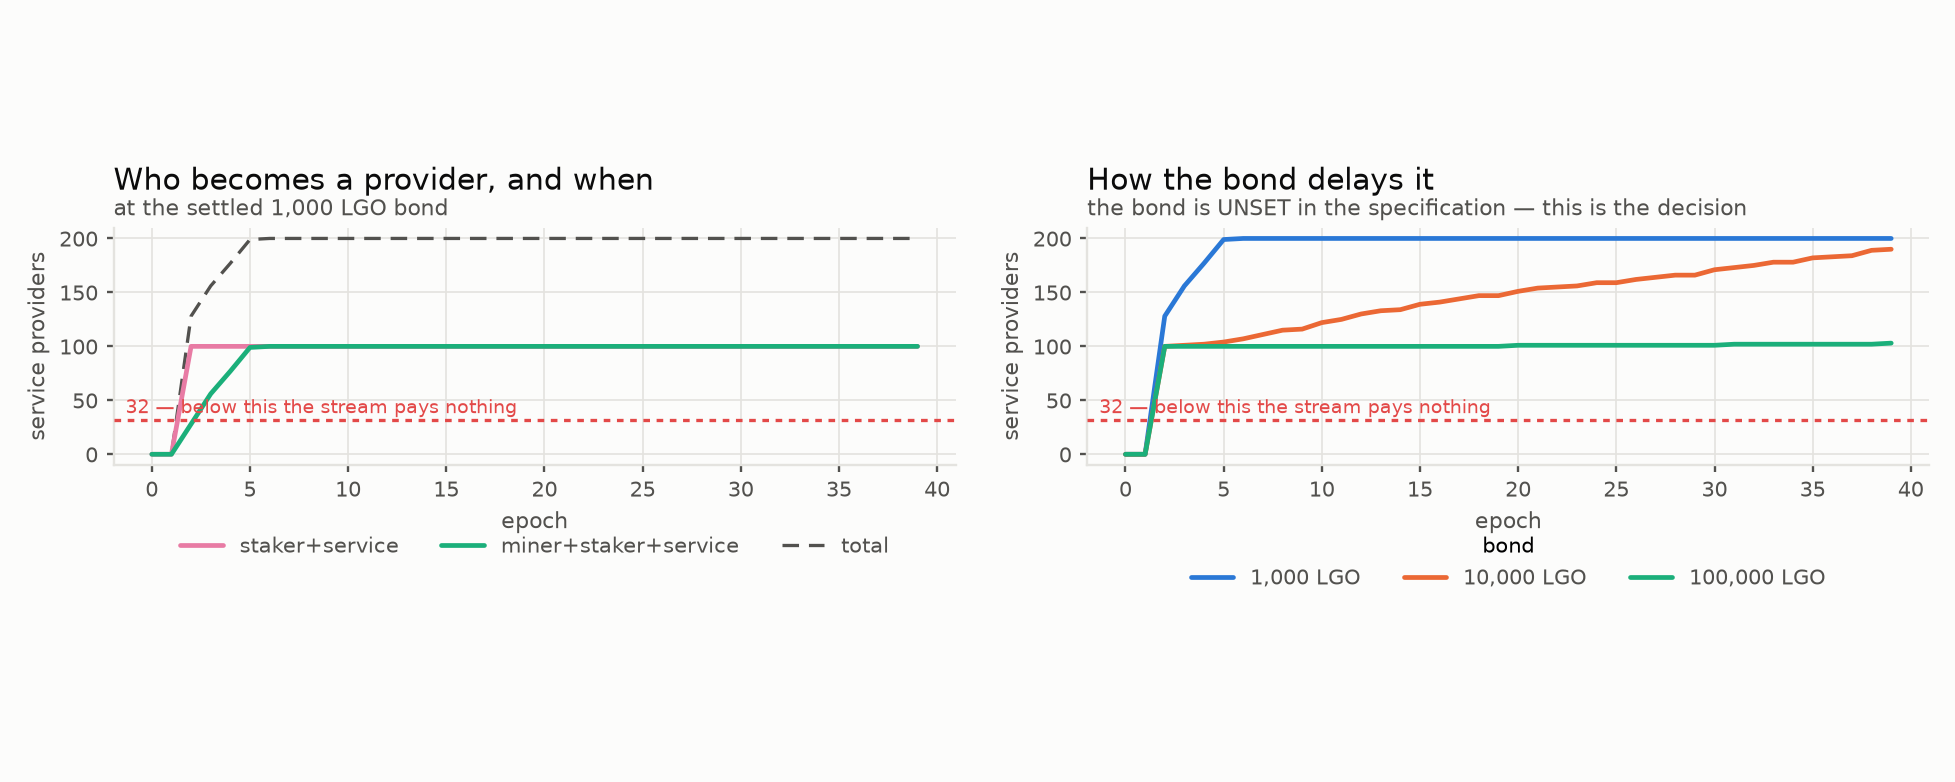
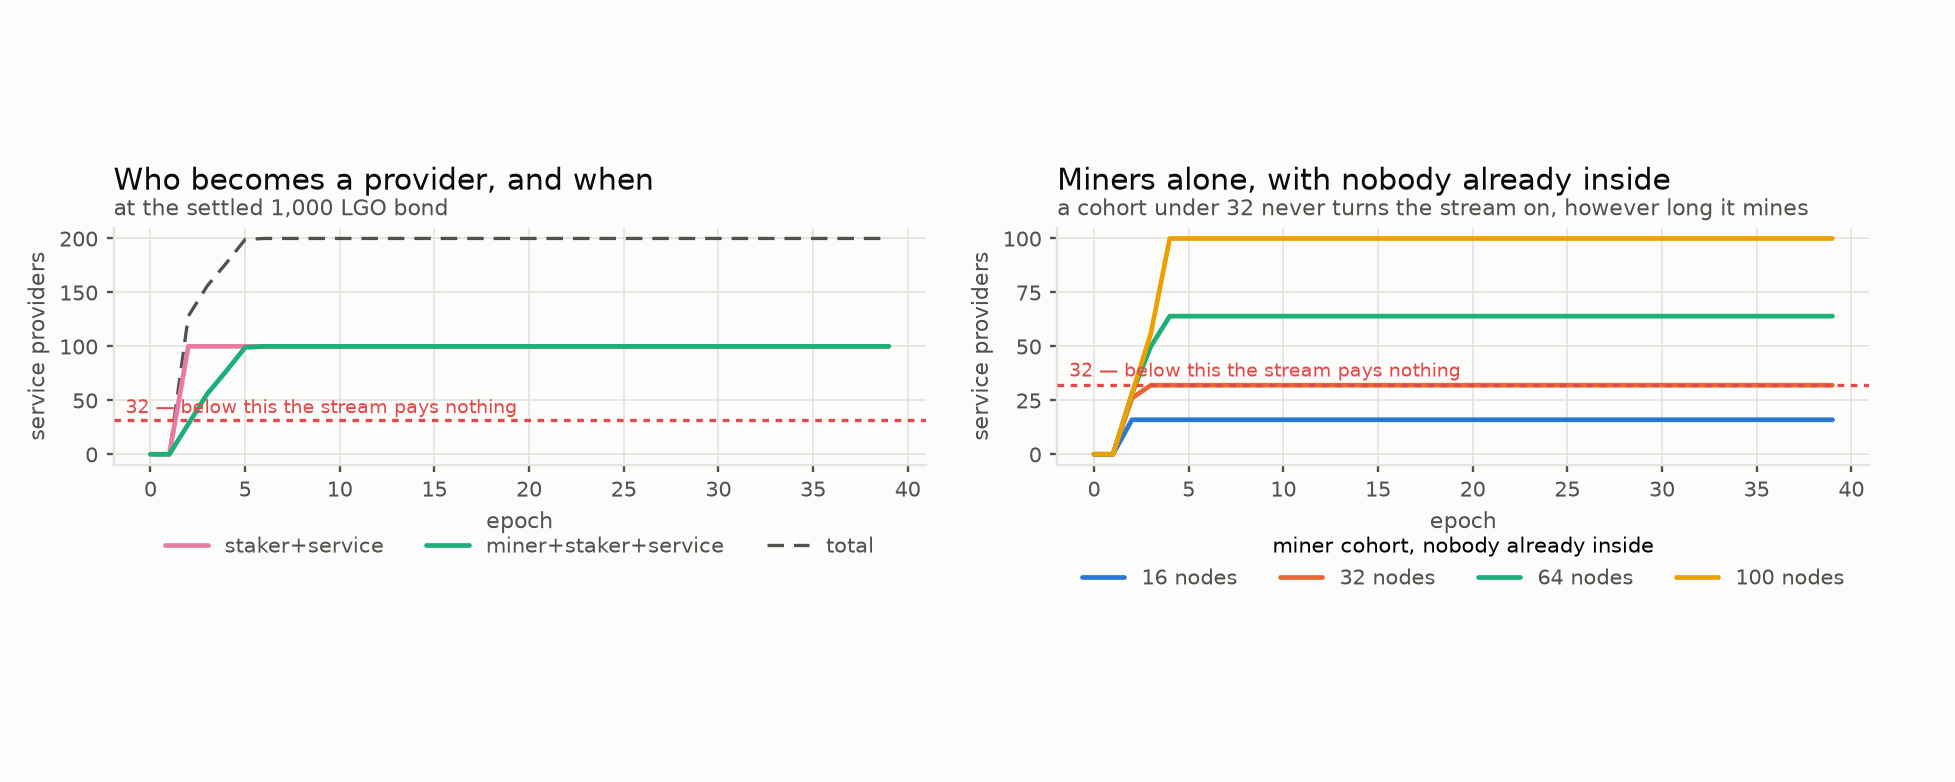
EmPoWering: the bond is fixed at 1,000 LGO, so the live question becomes who turns up
Recorded as settled rather than as a decision or a sweep axis, in the config, the
contradictions record and the study's plan. It was derived under a supply a hundred times
smaller than the one that governs -- the same rule at the governing supply would give 100,000
-- but the figure stands.

That makes the provider-ramp figure's second panel moot: sweeping a fixed constant answers
nothing. It is replaced by the question the first panel had raised and the sweep had
displaced. Both curves on the left sit above the thirty-two-provider floor throughout, but
only because the endowed group alone is a hundred nodes and carries the floor while the miners
ramp. So the right panel drops the endowed cohort and asks whether miners can turn the stream
on by themselves.

They can, but only if enough of them arrive. A sixteen-node cohort plateaus at sixteen and
NEVER reaches the floor: every one of its members crosses the bond inside a month and earns
nothing from it, because below thirty-two providers the reward is not calculated at all. At
thirty-two it is exactly marginal; at sixty-four and a hundred it clears by epoch four.

So with the bond fixed the binding constraint on the largest reward stream on the chain is not
the amount anyone must post -- it is how many people show up at once. The on-ramp needs
somebody already inside for it to be worth walking up, or it needs thirty-two people to arrive
[…]

diff --git a/tools/simulators/empowering/src/empowering_sim/plots_strategies.py b/tools/simulators/empowering/src/empowering_sim/plots_strategies.py
@@ -167,20 +167,23 @@ def per_node(cfg, pop, scfg, out: Path) -> Path:
     return p
 
 
-def provider_ramp(cfg, out: Path, thresholds=(1_000.0, 10_000.0, 100_000.0),
-                  epochs: int = 40) -> Path:
+def provider_ramp(cfg, out: Path, cohort_sizes=(16, 32, 64, 100), epochs: int = 40) -> Path:
     """How many nodes become service providers, and when.
 
-    Two panels, because the answer has two halves. On the left, who crosses at the settled
-    threshold: the endowed group is bonded from the moment its declaration clears the two-epoch
-    snapshot lag, while the miners have to earn their bond first. On the right, how much later
-    that happens if the threshold is higher -- which is the one parameter nobody has settled.
+    Two panels. On the left, who crosses at the fixed 1,000 LGO bond: the endowed group is
+    bonded from the moment its declaration clears the two-epoch snapshot lag, while the miners
+    must earn theirs first.
 
-    The thirty-two-provider floor is drawn on both, because below it the stream does not pay
-    at all and the ramp is not merely slower but irrelevant.
+    On the right, the question the left panel raises. Both curves there sit above the floor
+    throughout -- but only because the endowed group alone is a hundred nodes. **With the bond
+    fixed, whether the stream exists at all comes down to how many nodes turn up.** A network
+    of miners with no already-endowed cohort has to reach thirty-two bonded providers on its
+    own, and a cohort smaller than that never does, at any bond and after any amount of work.
+
+    The floor is drawn on both, because below it the stream does not pay at all and a ramp
+    toward it is not merely slow but pointless.
     """
     import matplotlib.pyplot as plt
-    from dataclasses import replace
 
     fig, axes = plt.subplots(1, 2, figsize=(11.5, 4.6))
 
@@ -203,20 +206,23 @@ def provider_ramp(cfg, out: Path, thresholds=(1_000.0, 10_000.0, 100_000.0),
     _style(axes[0], "Who becomes a provider, and when",
            f"at the settled {cfg.min_stake_lgo:,.0f} LGO bond")
 
-    # -- right: how the threshold delays it
-    for i, thr in enumerate(thresholds):
-        c2 = replace(cfg, min_stake_lgo=thr)
-        _, r2 = st.run(c2, st.StrategyConfig(epochs=epochs))
+    # -- right: miners alone, with no endowed cohort to carry the floor.
+    # The bond is fixed, so it is no longer a question. What is left is who turns up.
+    miners_only = {x: x in st.MINING for x in st.Strategy}
+    for i, k in enumerate(cohort_sizes):
+        _, r2 = st.run(cfg, st.StrategyConfig(
+            epochs=epochs, enabled=miners_only,
+            nodes_per_group={x: k for x in st.Strategy}))
         axes[1].plot([r.epoch for r in r2], [r.providers for r in r2],
                      color=list(SERIES.values())[i], linewidth=2, zorder=3,
-                     label=f"{thr:,.0f} LGO", solid_capstyle="round")
-    axes[1].legend(frameon=False, fontsize=9, ncol=3, loc="upper center",
+                     label=f"{k} nodes", solid_capstyle="round")
+    axes[1].legend(frameon=False, fontsize=9, ncol=4, loc="upper center",
                    bbox_to_anchor=(0.5, -0.22), labelcolor=INK_2,
-                   title="bond", title_fontsize=9)
+                   title="miner cohort, nobody already inside", title_fontsize=9)
     axes[1].set_xlabel("epoch", color=INK_2, fontsize=9.5)
     axes[1].set_ylabel("service providers", color=INK_2, fontsize=9.5)
-    _style(axes[1], "How the bond delays it",
-           "the bond is UNSET in the specification — this is the decision")
+    _style(axes[1], "Miners alone, with nobody already inside",
+           "a cohort under 32 never turns the stream on, however long it mines")
 
     for ax in axes:
         ax.axhline(services.MIN_PROVIDERS, color="#e34948", linewidth=1.4, zorder=4,

diff --git a/tools/simulators/empowering/src/empowering_sim/config.py b/tools/simulators/empowering/src/empowering_sim/config.py
@@ -64,11 +64,14 @@ class Config:
     # which is the anchor every staking figure here rests on.
     max_emission_per_year: float = 0.01
     stake_target: float = 0.30
-    # UNSET in the specification -- bedrock-service-declaration-protocol.md names
-    # min_stake.stake_threshold and gives it no value. The figure here is the one the static
-    # minimum stake analysis derives, and it is a DECISION rather than a reading: that
-    # analysis assumed S_TGE = 10^8 where block-rewards.md governs at 10^10, so the same
-    # 0.001% rule would give 100,000 LGO instead. 1,000 is carried deliberately.
+    # FIXED at 1,000 LGO and not a study axis. The specification names
+    # min_stake.stake_threshold without valuing it, and the static minimum stake analysis
+    # derives 1,000 -- under an S_TGE of 10^8 where block-rewards.md governs at 10^10, so the
+    # same 0.001% rule would have given 100,000. The figure stands as settled regardless.
+    #
+    # Its consequence is that reaching the bond costs about 865 claims, days to weeks of
+    # mining, so the service on-ramp is fast and note aging rather than the bond is what
+    # floors it.
     min_stake_lgo: float = 1_000.0
     # The genesis seed for the inferred total stake. bedrock-genesis-block.md:317 sets it to
     # the total tokens distributed at genesis; block-rewards.md's narrative assumes it small.

diff --git a/reports/EmPoWering/strategies/strategies-report.md b/reports/EmPoWering/strategies/strategies-report.md
@@ -161,29 +161,36 @@ congestible, and the two facts are the same fact.
 
 ![how many nodes become service providers, and when](figures/provider_ramp.png)
 
-The two groups arrive at the bond by different routes. The endowed group holds far more than
-the threshold from genesis, so it is a provider as soon as its declaration clears the
-two-epoch snapshot lag — bonded at epoch 2 and never later. The miners have to earn theirs,
-and at the settled 1,000 LGO bond that takes **about 865 claims**: the group crosses from none
-to all of it between epochs 2 and 5, roughly five weeks.
+The bond is **fixed at 1,000 LGO**. The two groups reach it by different routes. The endowed
+group holds far more than the bond from genesis, so it is a provider as soon as its
+declaration clears the two-epoch snapshot lag — bonded at epoch 2 and never later. The miners
+must earn theirs, which at this bond is about **865 claims**: the group crosses from none to
+all between epochs 2 and 5, roughly five weeks.
 
-The right panel is the same question asked of the parameter nobody has settled:
+So the on-ramp into the largest reward stream on the chain takes about a month, and note
+aging rather than the bond is what floors it — a miner waits nearly as long for its notes to
+age as it does to earn them.
 
-| bond | miners fully bonded by |
+**With the bond fixed, the live question is not how high the threshold is but who turns up.**
+The right panel drops the endowed cohort entirely and asks whether a network of miners can
+turn the service stream on by itself:
+
+| miner cohort, nobody already inside | outcome |
 | --- | --- |
-| 1,000 LGO | **epoch 5** (~5 weeks) |
-| 10,000 LGO | still climbing at epoch 40; ~90% of the way |
-| 100,000 LGO | essentially none of them inside 40 epochs |
+| 16 nodes | plateaus at 16 — **never reaches the floor, so the stream never pays** |
+| 32 nodes | exactly at the floor; marginal |
+| 64 nodes | clears it by epoch 4 |
+| 100 nodes | clears it by epoch 4 |
 
-A hundredfold change in a threshold the specification leaves UNSET moves the on-ramp from
-five weeks to longer than this study runs. It is the single most consequential unset value in
-the mechanism.
+**A cohort smaller than thirty-two never turns the stream on, however long it mines.** Its
+members can each cross the bond in a month and still earn nothing from it, because the reward
+is not calculated at all below that count.
 
-**And there is a bootstrapping dependency hiding in the left panel.** Both curves stay above
-the 32-provider floor throughout — but only because the endowed group alone is a hundred
-nodes. A network of miners *without* an already-endowed cohort would sit below the floor for
-the whole ramp, and the service stream would not exist during precisely the period the miners
-are working to join it. The on-ramp needs somebody already inside to be worth walking up.
+That is a real bootstrapping condition, and it is the reason the left panel looks so
+comfortable: both curves there sit above the floor throughout only because the endowed group
+alone is a hundred nodes. It carries the floor while the miners ramp. **The on-ramp needs
+somebody already inside for it to be worth walking up** — or it needs at least thirty-two
+people to arrive together.
 
 ---
 
@@ -351,11 +358,12 @@ the minimum still carries its full stake into the lottery.
 base share. Every provider here earns the base share, so the service groups' dispersion is
 understated — the flatness in §2 is the floor of the flatness, not the whole of it.
 
-**The bond itself is a decision, not a reading.** `min_stake.stake_threshold` is UNSET in the
-specification. This study uses 1,000 LGO, the figure the static minimum stake analysis derives
-— though that analysis assumed a supply a hundred times smaller than the one that governs. At
-100,000 LGO instead, reaching the bond takes 86,401 claims rather than 865, and strategy 3
-would not reach it inside this run at all.
+**The bond is fixed at 1,000 LGO and is not a study axis.** The specification names
+`min_stake.stake_threshold` without valuing it, and the static minimum stake analysis derives
+1,000 — under a supply a hundred times smaller than the one that governs, though the figure
+stands as settled regardless. What it leaves behind is that the service on-ramp is a matter of
+weeks, so **note aging rather than the bond is what floors it**, and the binding constraint on
+the stream is the thirty-two-provider count rather than the amount anyone must post.
 
 ---
 

diff --git a/tools/simulators/empowering/PLAN-STRATEGIES.md b/tools/simulators/empowering/PLAN-STRATEGIES.md
@@ -88,9 +88,10 @@ the earlier 500-position ceiling: it bounds access to the most lucrative stream 
 - **The emission control function is fully specified** in normative integer form,
   `A_t' = min(12e7, max(0, 3e9 - D_0t + 10512 * sum_{119}(D_1)))` with `STAKE_TARGET = 3e9`
   — confirming the 30% target and the 95.1294 LGO block reward independently.
-- **`min_stake.stake_threshold` is UNSET in the specification.** Only an analysis derives it.
-  It is therefore a sweep axis, not a constant — and since it gates the most valuable stream,
-  it is the most consequential axis in the study.
+- **`min_stake.stake_threshold` is FIXED at 1,000 LGO** and is not a sweep axis. The
+  specification does not value it and an analysis derives it; the figure is settled. Its
+  consequence is that the service on-ramp costs about 865 claims — weeks, not years — so the
+  binding constraint on the stream is the thirty-two-provider floor rather than the bond.
 
 The extraction also lists eleven contradictions between documents, several load-bearing. The
 APY one is already gated here; the others need reading before they can be ranked.
